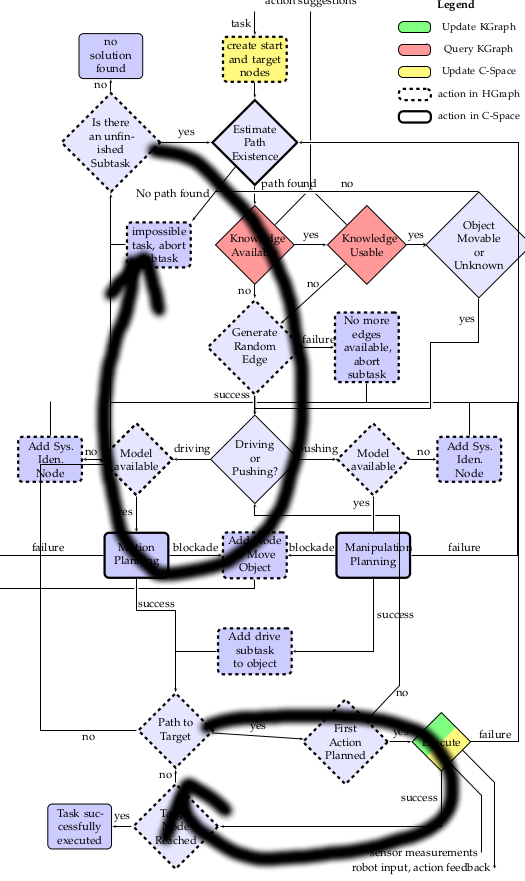
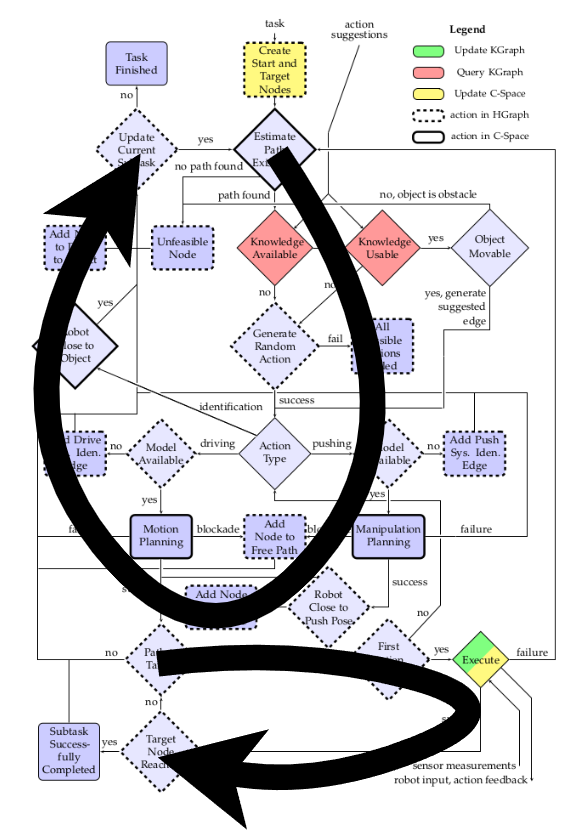
New figures!

diff --git a/mainmatter/hypothesis_graph/connecting_nodes.tex b/mainmatter/hypothesis_graph/connecting_nodes.tex
@@ -1,5 +1,119 @@
-\subsection{Connecting Nodes}%
-\label{subsec:connecting_nodes}
+\subsection{\acl{halgorithm}}%
+\label{subsec:halgorithm}
+This section contains some \ac{hgraph}'s, a legend for is now presented
+\todo[inline]{make legend yo for hgarph}
 
- \todo[inline]{create section that explain how nodes are connected, actually how are they connected gijs??}
+The \ac{halgorithm}'s first step when a task is given, is to generate a start and a target node for every subtask in the task. Then, the \ac{halgorithm} tries to connect start to target nodes with a backward search, which will now be shown.\bs
+
+\todo[inline]{search backward search, make tjhe math def, then the example}
+\todo[inline]{who made this stuff, does the reader know}
+\paragraph{Backward Search}%
+During a backward search, edges are added pointing toward the target node (or to nodes that point toward the target node). Trying to connect the robot node through a list of succesive directed edges to a target node. If such a path has been found in the \ac{hgraph}, a hypothesis has been found and the robot can start executing edges. Two simple examples are presented a task to drive the robot to a target configuration \cref{fig:robot_drive_hgraph} and a task to push an object to a target configuration in \cref{fig:robot_push_hgraph}.\bs
+
+\begin{figure}[H]
+    \centering
+    \begin{subfigure}{.3\textwidth}
+    \centering
+    \includegraphics[width=0.7\textwidth]{figures/connecting_nodes/robot_to_target}
+    \end{subfigure}
+    \begin{subfigure}{.3\textwidth}
+    \centering
+    \includegraphics[width=0.9\textwidth]{figures/connecting_nodes/robot_drive_target}
+    \end{subfigure}
+    \begin{subfigure}{.3\textwidth}
+    \centering
+    \includegraphics[width=\textwidth]{figures/connecting_nodes/robot_iden_drive_target}
+    \end{subfigure}
+    \hfill
+    \caption{\ac{hgraph} for driving the robot to target configuration}%
+    \label{fig:robot_drive_hgraph}
+\end{figure}
+Since the robot does not yet have a system model of itself, it is forced to perform system identification before it can drive to the specified target configuration. \bs
+
+\begin{figure}[H]
+    \centering
+    \begin{subfigure}{.3\textwidth}
+    \centering
+    \includegraphics[width=0.7\textwidth]{figures/connecting_nodes/robot_push_1}
+    \caption{}
+    \end{subfigure}
+    \begin{subfigure}{.3\textwidth}
+    \centering
+    \includegraphics[width=1.1\textwidth]{figures/connecting_nodes/robot_push_2}
+    \caption{}\label{subfig:robot_push_2}
+    \end{subfigure}
+    \begin{subfigure}{.3\textwidth}
+    \centering
+    \includegraphics[width=1.1\textwidth]{figures/connecting_nodes/robot_push_3}
+    \caption{}\label{subfig:robot_push_3}
+    \end{subfigure}
+
+    \begin{subfigure}{.3\textwidth}
+    \centering
+    \includegraphics[width=1.1\textwidth]{figures/connecting_nodes/robot_push_4}
+    \caption{}\label{subfig:robot_push_4}
+    \end{subfigure}
+    \begin{subfigure}{.3\textwidth}
+    \centering
+    \includegraphics[width=1.1\textwidth]{figures/connecting_nodes/robot_push_5}
+    \caption{}\label{subfig:robot_push_5}
+    \end{subfigure}
+    \begin{subfigure}{.3\textwidth}
+    \centering
+    \includegraphics[width=1.2\textwidth]{figures/connecting_nodes/robot_push_6}
+    \caption{}\label{subfig:robot_push_6}
+    \end{subfigure}
+    \caption{\ac{hgraph} for pushing the green box to the target configuration}%
+    \label{fig:robot_push_hgraph}
+\end{figure}
+\todo[inline]{put the current node in the figure above}
+Especially in \cref{subfig:robot_push_2,subfig:robot_push_3} it is clearly visible that the \ac{halgorithm} searches from target node to robot node. \Cref{fig:robot_push_hgraph} is extensive because some steps could be skipped. First, identifying a system model for the robot twice, see \cref{subfig:robot_push_6}, if the system model from edge Sys. Iden. pointing toward node robot\_model is reused, then the edge Sys. Iden. pointing toward robot\_model\_2 would be unnecessary. Second, if system models would already be availeble for driving the robot and pushing the green box, no single system identification edge would be required.\bs
+
+\paragraph{Encountering a Blocked Path}%
+During propagation of an edge's status, motion or manipulation planning occurs, when planning detects a blocking object, the path must first be freed. The procedure can be seen in \cref{fig:free_path}.\bs
+
+\begin{figure}[H]
+    \centering
+    \begin{subfigure}{.3\textwidth}
+    \centering
+    \includegraphics[width=0.5\textwidth]{figures/connecting_nodes/blocking_obj_1}
+    \caption{}
+    \end{subfigure}
+    \begin{subfigure}{.3\textwidth}
+    \centering
+    \includegraphics[width=\textwidth]{figures/connecting_nodes/blocking_obj_2}
+    \caption{}\label{subfig:blocking_obj_2}
+    \end{subfigure}
+    \begin{subfigure}{.3\textwidth}
+    \centering
+    \includegraphics[width=\textwidth]{figures/connecting_nodes/blocking_obj_3}
+    \caption{}\label{subfig:blocking_obj_3}
+    \end{subfigure}
+
+    \begin{subfigure}{.3\textwidth}
+    \centering
+    \includegraphics[width=1.2\textwidth]{figures/connecting_nodes/blocking_obj_4}
+    \caption{}\label{subfig:blocking_obj_4}
+    \end{subfigure}
+    \begin{subfigure}{.3\textwidth}
+    \centering
+    \includegraphics[width=\textwidth]{figures/connecting_nodes/blocking_obj_5}
+    \caption{}\label{subfig:blocking_obj_5}
+    \end{subfigure}
+    \begin{subfigure}{.3\textwidth}
+    \centering
+    \includegraphics[width=\textwidth]{figures/connecting_nodes/blocking_obj_6}
+    \caption{}\label{subfig:blocking_obj_6}
+    \end{subfigure}
+    \caption{\ac{hgraph} for driving to target configuration and encountering a blocked path}%
+    \label{fig:blocking_obj_hgraph}
+\end{figure}
+
+\paragraph{Encountering Failure}%
+ Apart from blocking objects that can be detected during planning, faults and failures can occur. If during the propagation of an edge's status any kind of failure arises, the failed edge and corresponding edges are marked as failed. Equally during execution, if a fault is detected, the execution halts and the edge and corresponding edges are marked as \quotes{failed}, the procedure can be seen in \cref{subsubsec:failed_edges}.\bs
+
+\paragraph{The Blacklist}%
+ The regeneration of failed edges must be prevented to avoid a loop of generating edges that fail and are regenerated again, \cref{subsubsec:blacklist} is dedicated to eleborating the blacklist.
+
+
 

diff --git a/mainmatter/hypothesis_graph/definition.tex b/mainmatter/hypothesis_graph/definition.tex
@@ -39,12 +39,12 @@ System identification and tracking a path are so very different, the edges are s
     \node [state, accepting, fill=my_red, right of=completed_test_num, node distance=6cm] (failed) {FAIL};
 
  % arrows
-    \draw [-stealth] ([xshift=-2cm]init_test_num.west) to node[near start,above]{\shortstack[]{select compatible\\sys. iden. method}} (init_test_num.west);
-    \draw[-stealth] (init_test_num) edge[bend right] node[left]{Collect \ac{IO} data} (completed_test_num)
-(completed_test_num) edge node[left]{create system model} (completed);
-    \draw [-stealth] (completed_test_num) edge[bend right] node[right]{goto next start configuration} (init_test_num);
-    \draw [-stealth] (completed_test_num) to node[]{Unable to reach next start configuration}  (failed.west);
-    \draw [-stealth] (init_test_num) [out=0, in=90] to node[above]{Unable to reach starting robot configuration}  (failed.north);
+    \draw [-stealth] ([xshift=-2cm]init_test_num.west) to node[near start,above]{\shortstack[]{Select compatible\\sys. iden. method}} (init_test_num.west);
+    \draw[-stealth] (init_test_num) edge[bend right] node[left]{\shortstack{Go to next start\\push configuration}} (completed_test_num)
+(completed_test_num) edge node[left]{Create system model} (completed);
+    \draw [-stealth] (completed_test_num) edge[bend right] node[right]{Collect \ac{IO} data} (init_test_num);
+    \draw [-stealth] (completed_test_num) to node[below]{\shortstack[]{Unable to reach next\\start configuration}}  (failed.west);
+    % \draw [-stealth] (init_test_num) [out=0, in=90] to node[above]{Unable to reach starting robot configuration}  (failed.north);
 
 \end{tikzpicture}
 \caption{\acs{FSM} displaying the status of an identification edge}%
@@ -67,19 +67,19 @@ An action edge, contains a drive or push action. From the point of initialisatio
     \node [state, accepting, fill=my_red] (failed) at ([xshift=4cm]$(system_model)!0.5!(path_planned)$) {FAIL};
 
  % arrows
-    \draw [-stealth] ([xshift=-2cm]init.west) to node[near start,above]{select controller} (init.west);
-    \draw[-stealth] (init) edge node[left]{graph-based path estimation} (path_exist)
-      (path_exist) edge[bend right] node[left]{load in system model} (system_model)
-(system_model) edge[bend right] node[left]{motion planning} (path_planned)
-(path_planned) edge[bend right] node[left]{goto execution loop} (executing)
-(executing) edge[bend right] node[left]{completed} (completed);
+    \draw [-stealth] ([xshift=-2cm]init.west) to node[near start,above]{Select controller} (init.west);
+    \draw[-stealth] (init) edge node[left]{Graph-based path estimation} (path_exist)
+      (path_exist) edge[bend right] node[left]{Load in system model} (system_model)
+(system_model) edge[bend right] node[left]{Motion planning} (path_planned)
+(path_planned) edge[bend right] node[left]{Go to execution loop} (executing)
+(executing) edge[bend right] node[left]{Completed} (completed);
 
-    \draw [-stealth] (init.east) [out=0, in=90] to node[xshift=0.1cm, right]{path non-existence proven}  ([yshift=-0.03cm,xshift=0.2cm]failed.north);
-    \draw [-stealth] (path_exist.east) [out=0, in=90] to node[xshift=-0.6cm,yshift=0.55cm, above]{\shortstack[l]{system\\identification\\error}}  ([yshift=-0.03cm,xshift=-0.2cm]failed.north);
-    \draw [-stealth] (system_model.east) [out=0, in=180] to node[xshift=0.1cm, yshift=0.3cm, above]{\shortstack[l]{motion\\planning\\error}} (failed.west);
+    \draw [-stealth] (init.east) [out=0, in=90] to node[xshift=0.1cm, right]{Path non-existence proven}  ([yshift=-0.03cm,xshift=0.2cm]failed.north);
+    \draw [-stealth] (path_exist.east) [out=0, in=90] to node[xshift=-0.6cm,yshift=0.55cm, above]{\shortstack[l]{System\\identification\\error}}  ([yshift=-0.03cm,xshift=-0.2cm]failed.north);
+    \draw [-stealth] (system_model.east) [out=0, in=180] to node[xshift=0.1cm, yshift=0.3cm, above]{\shortstack[l]{Motion\\planning\\error}} (failed.west);
     node[right]{motion planning error}
     ([yshift=-0.3cm]failed.west);
-    \draw [-stealth] (executing.east) [out=0, in=-90] to node[xshift=0.1cm,right]{fault detected}(failed.south);
+    \draw [-stealth] (executing.east) [out=0, in=-90] to node[xshift=0.1cm,right]{Fault detected}(failed.south);
 
 \end{tikzpicture}
 \caption{\acs{FSM} displaying the status of an action edge}%
@@ -100,4 +100,4 @@ An action edge, contains a drive or push action. From the point of initialisatio
 \end{minipage}}
 \par\smallskip
 
-\Cref{tikz:status_action_edge} shows that many steps must successfully be completed before the robot can start executing. The performance of an edge during execution, measured in various metrics (\cref{sec:proposed_method_metrics} is dedicated to metrics) is dependent on many aspects. Such as the choice of controller, the path estimation, the system model yielded by the identification edge and the path yielded by motion planning. Now that he \ac{hgraph} is defined, let's see how it is generated in the upcoming section.\bs
+\Cref{tikz:status_action_edge} shows that many steps must successfully be completed before the edge can be executed. Before executing edges, edges must be initialised, which is where next section is dedicated to.\bs

diff --git a/mainmatter/required_background/backward_search.tex b/mainmatter/required_background/backward_search.tex
@@ -1,7 +1,12 @@
+% COMMENT FROM GIJS 
+% This backward search is a nice proposition which could be build on top of the proposed method, perhaps, move it toward  future work
 
-\section{Backward Search}%
-\label{sec:backward_search}
-This section introduces the \ac{RS} algorithm, an algorithm capable of finding a feasible order in which to rearrange objects to a target configuration~\cite{krontiris_dealing_2015}. In upcoming chapther the proposed method will rely upon this \ac{RS} algorithm to find a feasible order to complete a specified task. The \ac{RS} algorithm is an existing algorithm and has been proven and tested in 2015 by \citeauthor{krontiris_dealing_2015}. The rearrangement search algorithm relies on a technique known as \textbf{backward induction} also known as \textbf{backward tracing} or \textbf{backward search}. This thesis will refer to the underlying technique of the \ac{RS} algorithm with the term \quotes{backward search}. \citeauthor{krontiris_dealing_2015} proposed two versions of the rearrangement algorithm the \ac{mRS} algoritm that specilises in monotone challenges where objects can only be rearrange once, and the \ac{plRS} that specialises in nonmonotone challenges which result in searching in a piecewise-linear configuration space. In this thesis the focus lies upon \ac{plRS}, and a from this point the \ac{RS} algorithm refers to the \ac{plRS} algorithm.\bs
 
-Now the \ac{plRS} algorithm will be briefly discussed. 
-\todo[inline]{explain how a backward search works, but keep it compact, the interested readers should go find the referce}
+
+%
+% \section{Backward Search}%
+% \label{sec:backward_search}
+% This section introduces the \ac{RS} algorithm, an algorithm capable of finding a feasible order in which to rearrange objects to a target configuration~\cite{krontiris_dealing_2015}. In upcoming chapther the proposed method will rely upon this \ac{RS} algorithm to find a feasible order to complete a specified task. The \ac{RS} algorithm is an existing algorithm and has been proven and tested in 2015 by \citeauthor{krontiris_dealing_2015}. The rearrangement search algorithm relies on a technique known as \textbf{backward induction} also known as \textbf{backward tracing} or \textbf{backward search}. This thesis will refer to the underlying technique of the \ac{RS} algorithm with the term \quotes{backward search}. \citeauthor{krontiris_dealing_2015} proposed two versions of the rearrangement algorithm the \ac{mRS} algoritm that specilises in monotone challenges where objects can only be rearrange once, and the \ac{plRS} that specialises in nonmonotone challenges which result in searching in a piecewise-linear configuration space. In this thesis the focus lies upon \ac{plRS}, and a from this point the \ac{RS} algorithm refers to the \ac{plRS} algorithm.\bs
+%
+% Now the \ac{plRS} algorithm will be briefly discussed. 
+% \todo[inline]{explain how a backward search works, but keep it compact, the interested readers should go find the referce}

diff --git a/mainmatter/hypothesis_graph/two_loops.tex b/mainmatter/hypothesis_graph/two_loops.tex
@@ -4,11 +4,10 @@ Now that \ac{hgraph} is defined let's find out how it reacts to various behaviou
 
 \begin{figure}[H]
     \centering
-    \includegraphics[width=5cm]{figures/two_loops_identified}
-    \caption{The search and execution loop.}%
+    \includegraphics[width=9cm]{figures/two_loops_identified}
+    \caption{The search (above) and execution (below) loop.}%
     \label{fig:two_loops_identified}
 \end{figure}
-\todo[inline]{Update figure above, professionalise arrows}
 
 While the \ac{hgraph} resides in the search loop, hypotheses are formed. Forming a hypothesis, generating edges, nodes and progressing their status as described in \cref{tikz:status_identification_edge,tikz:status_action_edge} respectively. The \ac{hgraph} operates synchronously, thus at any point in time, the \ac{hgraph} resides in a single block within \cref{tikz:flowchart_hgraph}. The result is that the robots cannot operate whilst the \ac{hgraph} resides in the search loop, and during execution, no hypothesis can be formed or updated. Assumption~\ref{assumption:closed_world} guarantees that the robot environment does not change causing existing hypotheses to be outdated.\bs
 
